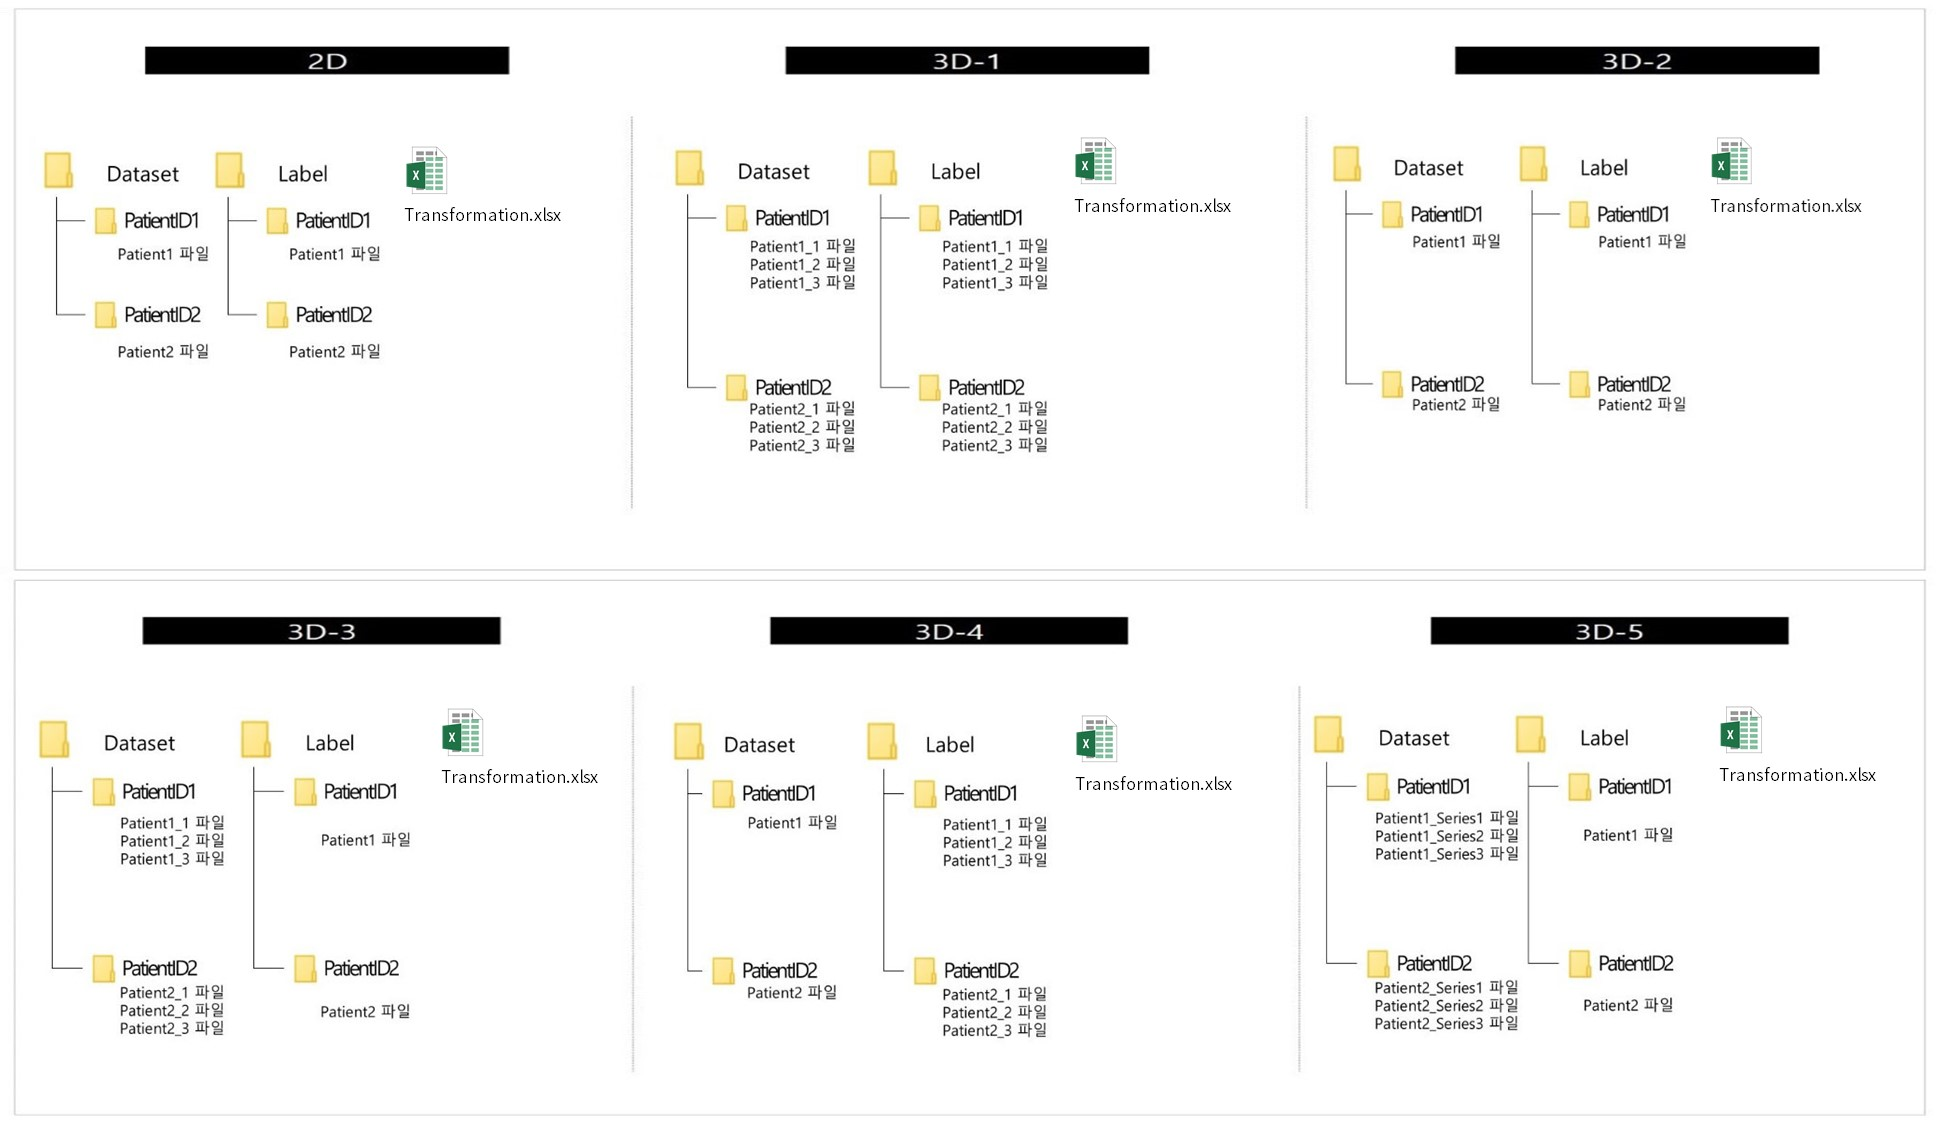
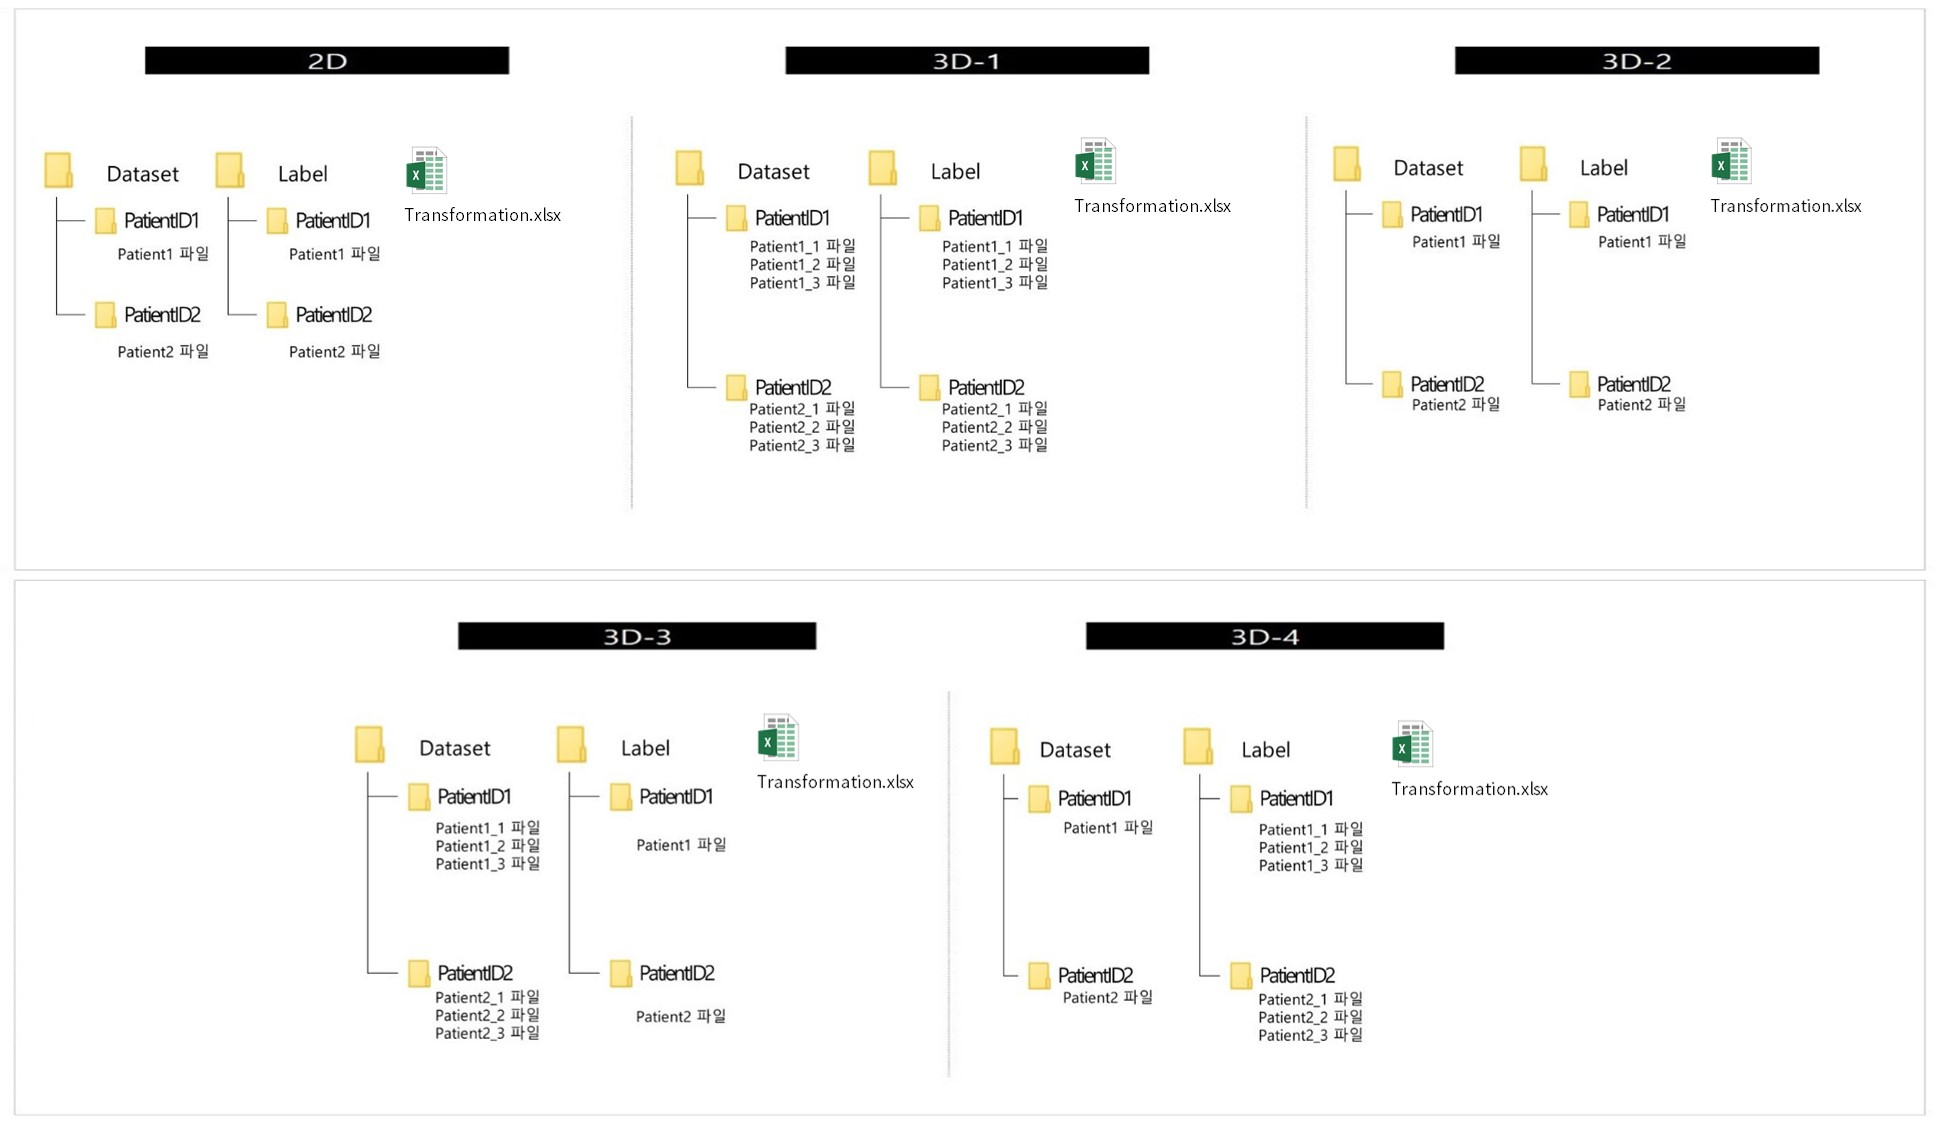
transformation 추가

diff --git a/chapter4/4-2.DEEPPHI_플랫폼_모듈의_입출력_데이터_구조.md b/chapter4/4-2.DEEPPHI_플랫폼_모듈의_입출력_데이터_구조.md
@@ -90,9 +90,29 @@ print(주소록['홍길동'])
 
 <br/>
 
-#### - data['prediction']의 구조
+#### - data['label']['transformation']의 구조
 
 ![](img/4-2/manual_4-2_2_4.jpg)
+
+|                      Dictionary Key:value                      |                                                       Data Explanation                                                      |                 Data Example                |
+|:--------------------------------------------------------------:|:---------------------------------------------------------------------------------------------------------------------------:|:-------------------------------------------:|
+| data['label']['transformation']['array']                       | Label image array(numpy array)                                                                                              |                                             |
+| data['label']['transformation']['header']['Direction']         | Direction matrix. Default is identity. mapping, rotation, between direction of the pixel/voxel axes and physical directions | np.array([1., 0., 0., 1.])                  |
+| data['label']['transformation']['header']['IsVector']          | color channel 유무                                                                                                          | True / False                                |
+| data['label']['transformation']['header']['Origin']            | coordinates of the pixel/voxel with index (0,0,0) in physical units                                                         | np.array([0., 0.])                          |
+| data['label']['transformation']['header']['Spacing']           | distance between adjacent pixels/voxels in each dimension given in physical units                                           | np.array([2., 1.1213])                      |
+| data['label']['transformation']['header']['color_mode']        | color channel type                                                                                                          | 'RGB' / 'L' (grayscale) / 'Binary' (binary) |
+| data['label']['transformation']['header']['dim']               | image dimension                                                                                                             | 2 / 3                                       |
+| data['label']['transformation']['header']['ndim']              | image shape의 dimension                                                                                                     | 2 / 3 / 4                                   |
+| data['label']['transformation']['header']['dtype']             | pixel data type                                                                                                             | uint8 / float32                             |                                                                                                             | 2                                           |
+| data['label']['transformation']['header']['modality']          | modality of medical image                                                                                                   | CT / MRI / Xray                             |
+| data['label']['transformation']['header']['piexl_value_range'] | image의 pixel값 중 최소, 최대 값의 범위                                                                                        | np.array([0, 255])                          |
+
+<br/>
+
+#### - data['prediction']의 구조
+
+![](img/4-2/manual_4-2_2_5.jpg)
 
 |                    Dictionary Key:value                   |                     Data Explanation                  |           Data Example          |
 |:---------------------------------------------------------:|:---------------------------------------------------- :|:-------------------------------:|
@@ -103,3 +123,5 @@ print(주소록['홍길동'])
 | data['prediction']['object_detection']['bbox_coordinate'] | prediction result의 bbox 좌표 정보가 담긴 결과           | np.array([180., 149. 350. 348]) |
 | data['prediction']['object_detection']['bbox_class']      | prediction result의 해당 bbox의 클래스 정보가 담긴 결과   | np.array([1.,0.,0.,0.,0.])      |
 | data['prediction']['object_detection']['header']          | 메타데이터 보관을 위한 비어 있는 Dictionary               |                                 |
+| data['prediction']['transformation']['array']             | prediction result가 image array(np.array)로 저장된 결과 |                                 |
+| data['prediction']['transformation']['header']            | 메타데이터 보관을 위한 비어 있는 Dictionary               |                                 |

diff --git a/chapter4/4-1.데이터셋_템플릿.md b/chapter4/4-1.데이터셋_템플릿.md
@@ -156,8 +156,8 @@
 
 > - 영상 데이터와 라벨 데이터가 각각 Dataset 폴더와 Label 폴더 하위에 존재하는 경우입니다.
 > - 영상 데이터와 라벨 데이터의 파일명은 동일해야 합니다.
-> - Segmentation 데이터셋과 구분하기 위해 Transformation_option.xlsx 파일이 반드시 존재해야 합니다.
-> - Transformation_option.xlsx 파일안에는 아무것도 입력되지 않아도 됩니다.
+> - Segmentation 데이터셋과 구분하기 위해 Transformation.xlsx 파일이 반드시 존재해야 합니다.
+> - Transformation.xlsx 파일안에는 아무것도 입력되지 않아도 됩니다.
 > - 3D형 데이터 포맷인 .nii 혹은 .nii.gz 형태의 NIFTI 파일만 지원합니다.
 
 <br/>
@@ -166,9 +166,21 @@
 
 ![](img/4-1/manual_4-1_4_2.jpg)
 
-> - 영상 데이터와 라벨 데이터가 각각 Datset 폴더와 Label 폴더에 존재하며, 각 환자의 Patient ID 별로 폴더가 구분된 경우입니다.  
+> - 영상 데이터와 라벨 데이터가 각각 Dataset 폴더와 Label 폴더에 존재하며, 각 환자의 Patient ID 별로 폴더가 구분된 경우입니다.  
 > - 영상 데이터와 라벨 데이터의 폴더명은 동일해야 합니다.
-> - Segmentation 데이터셋과 구분하기 위해 Transformation_option.xlsx 파일이 반드시 존재해야 합니다.
-> - Transformation_option.xlsx 파일안에는 아무것도 입력되지 않아도 됩니다.
+> - Segmentation 데이터셋과 구분하기 위해 Transformation.xlsx 파일이 반드시 존재해야 합니다.
+> - Transformation.xlsx 파일안에는 아무것도 입력되지 않아도 됩니다.
+> - 3D 데이터의 경우, 하나의 Patient 폴더안에 여러 파일들(ex. jpg, dcm)을 합쳐 하나의 3D 데이터로 구성할 수도 있고, 하나의 파일(ex. NIFTI 파일)로 3D 데이터를 구성할 수도 있습니다.
+><br/>
+
+#### 구조3. StudyUID > SeriesUID 구조로, 모든 Series를 하나의 data로 처리하는 경우
+
+![](img/4-1/manual_4-1_4_3.jpg)
+
+> - 영상 데이터와 라벨 데이터가 각각 Dataset 폴더와 Label 폴더에 존재하며, 각 환자의 Study UID 별로 폴더가 구분되어 있고 Study UID 아래에 다양한 Series 별로 구분이 되어있는 경우입니다.  
+> - Series 파일들이 channel 축으로 쌓여 데이터를 구성합니다. 
+>- 영상 데이터와 라벨 데이터의 Study UID명은 동일해야 합니다.
+> - Segmentation 데이터셋과 구분하기 위해 Transformation.xlsx 파일이 반드시 존재해야 합니다.
+> - Transformation.xlsx 파일안에는 아무것도 입력되지 않아도 됩니다.
 > - 3D 데이터의 경우, 하나의 Patient 폴더안에 여러 파일들(ex. jpg, dcm)을 합쳐 하나의 3D 데이터로 구성할 수도 있고, 하나의 파일(ex. NIFTI 파일)로 3D 데이터를 구성할 수도 있습니다.
 ><br/>

diff --git a/README.md b/README.md
@@ -7,6 +7,8 @@
 #### Improvement
 
 - Hyper-parameter Auto-Tunning 과정에서 over-fitting을 피하기 위해 perturbation을 주는 로직을 추가하였습니다.
+- Image to Image 학습을 위해 'Transformation' AI label type을 추가하였습니다.(업로드  : https://deepphi.github.io/manual/chapter4/4-1.데이터셋_템플릿.html,  
+예제 프로젝트 : )
 
 #### Bug
 
@@ -25,3 +27,4 @@
     
 - 메뉴얼 업데이트
   - [3-5.6. Hyper-parameter Auto-Tunning](https://deepphi.github.io/manual/chapter3/3-5.성능_고도화.html#6-hyper-parameter-auto-tunning)
+  - [4-1.4. Transformation 데이터셋 구조](https://deepphi.github.io/manual/chapter4/4-1.데이터셋_템플릿.html)
